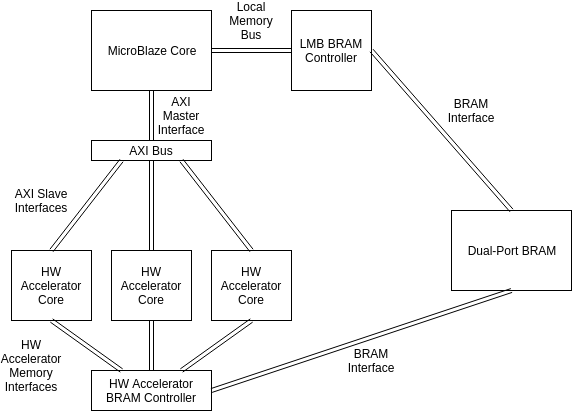
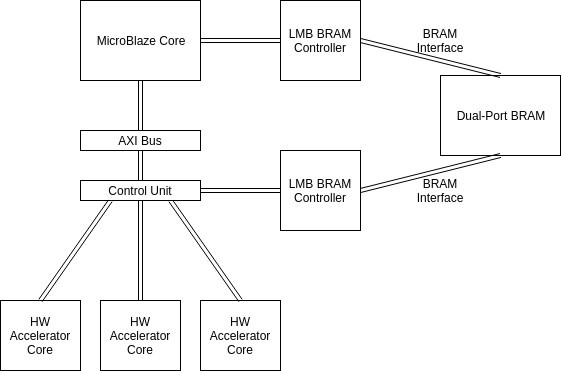
Extended 'analysis' section of 'methodology' chapter

diff --git a/REPORT.tex b/REPORT.tex
@@ -4,6 +4,8 @@
 \usepackage{tikz}
 \usetikzlibrary{automata, positioning, arrows}
 
+\usepackage{float}
+
 \tikzset{
   ->, % makes the edges directed
   node distance=4cm, % specifies the minimum distance between two nodes. Change if necessary.
@@ -224,14 +226,20 @@ perform flow control), but also that the implementation of state machines is les
 
 MicroBlaze \cite{microblaze} is a 32-bit RISC architecture. It is highly configurable, as certain features
 (e.g. FPU, multiplier, barrel shifter) can be disabled if not required. This allows the architecture to be as minimal as is
-required by the application.
+required by the application. Because of this, MicroBlaze is often used in embedded environments where power efficiency is
+a significant concern.
 
 The system used in this project consists of one MicroBlaze core, connected to local instruction and data block RAM (BRAM)
-via the local memory bus (LMB). The processor's AXI bus is used to connect to one or more hardware accelerator cores.
-These hardware accelerator cores are then connected to the BRAM via a standard Xilinx BRAM interface.
+via the local memory bus (LMB). The processor's AXI bus is used to connect to a hardware-accelerator control unit, which is
+in turn connected to one or more hardware accelerator cores, as well as to the BRAM via a standard Xilinx BRAM interface.
+All communication with memory and with the MicroBlaze core by hardware accelerators is managed by the control unit.
+
+This reduces the number of signals required, as the accelerators themselves can use a simplified memory interface to communicate
+with the memory and the MicroBlaze core, rather than each having to separately implement the LMB and AXI protocols.
+In addition, the 
 
 \begin{figure}[h]
-\center{\includegraphics[width=\textwidth]
+\center{\includegraphics[width=0.75\textwidth]
 {figures/architecture.png}}
 \caption{System architecture.}
 \label{fig:systemArchitecture}
@@ -251,41 +259,67 @@ of the code that the hardware accelerator is intended to replace. Each state mac
 
 \begin{table}[h]
 \centering
-\begin{tabular}{ |p{2cm}|p{2cm}|p{8cm}| }
+\begin{tabular}{ |p{2cm}|p{2cm}|p{9cm}| }
 \textbf{Signal} & \textbf{Direction} & \multicolumn{1}{c}{\textbf{Description}} \\
-CLK             & I                  & Clock signal. \\[0.1cm]
-RST             & I                  & Reset signal. \\[0.1cm]
-SELECT          & I                  & Block-select signal. Block is active when this is HIGH, and inactive when this is LOW. \\[0.1cm]
-DONE            & O                  & Done signal. This goes HIGH once the state machine has finished its computation, and goes LOW when the state machine is reset. \\[0.1cm]
-M\_RDY          & I                  & Memory-ready signal. Signals to the state machine that a memory transaction has completed. \\[0.1cm]
-M\_ADDR         & O                  & Memory address. Address of word being accessed in memory. \\[0.1cm]
-M\_DATA         & I/O                & Data in/out. Data accessed in memory is written to or read from this line. \\[0.1cm]
-IN\_Rxx         & I                  & One or more input register lines. Inputs to the state machine are written to these lines from the MicroBlaze core. \\[0.1cm]
+CLK             & I                  & Clock signal. \\[0.05cm]
+RST             & I                  & Reset signal. Active HIGH. \\[0.05cm]
+SEL             & I                  & Block-select signal. Block is active when this is HIGH, and inactive when this is LOW. \\[0.05cm]
+DONE            & O                  & Done signal. This goes HIGH once the state machine has finished its computation, and goes LOW when the state machine is reset. \\[0.05cm]
+M\_RDY          & I                  & Memory-ready signal. Signals to the state machine that a memory transaction has completed. \\[0.05cm]
+M\_RD           & O                  & Memory read strobe. Indicates that the state machine is reading a value from memory. \\[0.05cm]
+M\_WR           & O                  & Memory write strobe. Indicates that the state machine is writing a value to memory. \\[0.05cm]
+M\_ADDR         & O                  & Memory address. Address of word being accessed in memory. \\[0.05cm]
+M\_DATA         & I/O                & Data in/out. Data accessed in memory is written to or read from this line. \\[0.05cm]
+IN\_Rxx         & I                  & One or more input register lines. Inputs to the state machine are written to these lines from the MicroBlaze core. \\[0.05cm]
 OUT\_Rxx        & O                  & One or more output register lines. Outputs from the state machine are written to these lines from the state machine once it has finished computation.
 \end{tabular}
 \caption{Hardware accelerator input/output signals.}
 \label{table:acceleratorSignals}
 \end{table}
 
+There are four kinds of states in the hardware accelerator model. The start state, which is the state the accelerator is in
+when activated, transfers inputs from the accelerator's register input ports into internal registers, for use during the
+computation. The end state is the state the accelerator moves to when the computation is complete. In this state, output values
+are transferred from the accelerator's internal registers to the register output ports, to be read by the MicroBlaze core.
+
+In between the start and end states are a series of computation and wait states. A computation state is derived from a series of
+non-memory-access instructions (e.g. \texttt{addi} (add-immediate) or \texttt{mul} (integer multiply)). A circuit is constructed
+from the instructions which implements the same functionality, but in parallel, as shown in figure ~\ref{fig:computationState}.
+As such, while the instructions represented by a computation state might take several cycles to complete on a general-purpose
+processor, the hardware accelerator can always complete a computation state in a single cycle.
+
+\begin{figure}[h]
+\center{\includegraphics[width=0.75\textwidth]
+{figures/computation-state.png}}
+\caption{Comparison of original program instructions and generated parallel circuit.}
+\label{fig:computationState}
+\end{figure}
+
+Each computation state is separated by one or more wait states, in which the accelerator either fetches data from or writes data
+to the local memory. Each wait state is associated with a single input/output instruction
+(e.g. \texttt{lwi} (load word immediate) or \texttt{sb} (store byte)). These states can typically be completed within a single
+cycle, but may take more depending on memory latency.
+
 \section{Code Analysis}
 
 In order to identify the best candidates for extraction into hardware accelerators, some analysis needs to be performed.
 The first step in this analysis is to break the instruction stream up into basic blocks. A basic block is a linear portion of
-code, bounded at both ends by flow control instructions (e.g. branch or call instructions). These blocks can then be linked
-together into a data-flow graph, in which all nodes are basic blocks, and all edges links between those blocks.
+code, bounded at both ends by flow control instructions (e.g. branch or call instructions), or a label (indicating that this
+portion of code is the target of a jump somewhere else in the program). These blocks can then be linked
+together into a program-flow graph, in which all nodes are basic blocks, and all edges links between those blocks.
+From this representation, some information about the individual blocks can be extracted. 
 
 \subsection{Inputs and Outputs}
 
-From this representation, some information about the individual blocks can be extracted. It is possible to know what the inputs
-and outputs from a block are in isolation (with an input being any register that is read before being written to in the block,
-and an output being any register written to at any point in the block). However, this leads to very conservative results, as
-highlighted by figure ~\ref{fig:analysisNaiveApproach}. In the example, \texttt{r6} is used as a temporary register, and
-according to the MicroBlaze ABI \cite{microblaze-ref} is discarded on returning from the function. If we take the naive approach
-to identifying a block's outputs, we ignore this fact and assume that because \texttt{r6} is written to, it must be an output of
-the block. In a real block, there may be many more temporary registers used, resulting in the analysis reporting a large number
-of 'false outputs'.
+It is possible to know what the inputs and outputs from a block are in isolation (with an input being any register that is read
+before being written to in the block, and an output being any register written to at any point in the block). However, this leads
+to very conservative results, as highlighted by figure ~\ref{fig:analysisNaiveApproach}. In the example, \texttt{r6} is used as a
+temporary register, and according to the MicroBlaze ABI \cite{microblaze-ref} is discarded on returning from the function. If we
+take the naive approach to identifying a block's outputs, this information is ignored and it is assumed that because \texttt{r6}
+is written to, it must be an output of the block. In a real block, there may be many more temporary registers used, resulting in
+the analysis reporting a large number of 'false outputs'.
 
-\begin{figure}[h]
+\begin{figure}[H]
   \begin{center}
     \begin{minipage}{0.5\linewidth}
       \begin{monospace}
@@ -300,6 +334,38 @@ of 'false outputs'.
 
 In order to solve this problem, the analysis needs to take into account both how the registers are used (as defined by the
 ABI) and the context in which the block exists (i.e. what blocks come before and after it).
+The register descriptions, taken from the ABI, are shown in figure ~\ref{fig:abi}. R3 and R4 are used for returning values from
+subroutines, and so must be outputs from a basic block (if written to) if that block is the last block in a subroutine
+(i.e. the last instruction in it is a \texttt{rtsd} instruction). However, as R5 to R12 are volatile, they are not preserved
+when returning from a subroutine (as they will be restored by the caller). Therefore, if they are written to in the last block
+of a subroutine, they can be discarded as outputs.
+
+\begin{figure}[H]
+\centering
+\begin{tabular}{ |p{2cm}|p{2cm}|p{9cm}| }
+\textbf{Register} & \textbf{Type} & \multicolumn{1}{c}{\textbf{Description}} \\
+R0       & Dedicated    & Hardcoded 0. \\[0.05cm]
+R1       & Dedicated    & Stack pointer. \\[0.05cm]
+R2       & Dedicated    & Read-only small-data-area pointer. \\[0.05cm]
+R3-R4    & Volatile     & Return values/temporaries. \\[0.05cm]
+R5-R10   & Volatile     & Passing parameters/temporaries. \\[0.05cm]
+R11-R12  & Volatile     & Temporaries. \\[0.05cm]
+R13      & Dedicated    & Read-write small-data-area pointer. \\[0.05cm]
+R14      & Dedicated    & Return address for interrupts. \\[0.05cm]
+R15      & Dedicated    & Return address for subroutines. \\[0.05cm]
+R16      & Dedicated    & Return address for trap (debugger). \\[0.05cm]
+R17      & Dedicated    & Return address for exceptions. \\[0.05cm]
+R18      & Dedicated    & Reserved for assembler. \\[0.05cm]
+R19-R31  & Non-volatile & Must be saved across function calls (callee-save).
+\end{tabular}
+\caption{MicroBlaze ABI register descriptions.}
+\label{fig:abi}
+\end{figure}
+
+Once the true inputs and outputs of the last block of a subroutine are known, the outputs of any block directly preceeding it in
+the program-flow graph in the same subroutine can be 'pruned' in a similar way. If a volatile register is an output of a
+preceeding block, but not a return-value register (R3 or R4), nor an input of the following block, it is not a 'true' output and
+can be assumed to be temporary. This approach can then be applied recursively until the start of the subroutine is reached.
 
 \subsection{Input/Output Overheads}
 
@@ -331,7 +397,7 @@ shown in figure ~\ref{fig:highMemoryDensity}: the generated accelerator will alt
 with each computation state containing at most a single instruction. The accelerator will consume the same number of cycles
 executing this operation as the general-purpose processor.
 
-\begin{figure}[h]
+\begin{figure}[H]
   \begin{center}
     \begin{minipage}{0.5\linewidth}
       \begin{monospace}
@@ -347,16 +413,5 @@ executing this operation as the general-purpose processor.
 Some of these issues can be overcome by compiler optimisation. A compiler could ensure that all the memory access in the example
 is done 'up front', resulting in 3 wait states and 1 computation state. However, if there are dependencies between
 the memory accesses, such an optimization may not be possible.
-
-\section{Translation into State Machines}
-
-\begin{figure}[ht]
-  \centering
-  \input{figures/autogen/statemachine.tex}
-  \caption{An example hardware accelerator model.}
-  \label{fig:exampleStateMachine}
-\end{figure}
-
-\printbibliography
 
 \end{document}
